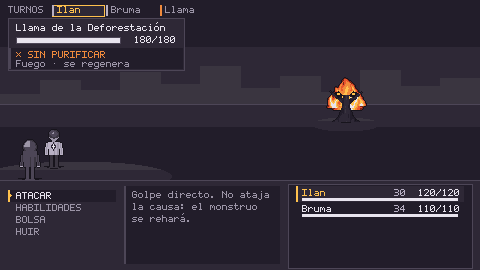
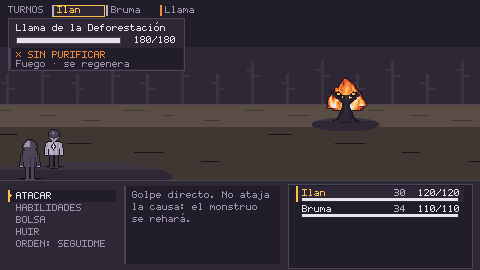
feat(ia): la orden también se juzga y los compañeros actúan en combate (IA-5 paso 3, enmienda 1)

Changed region(s): [[0.0, 0.3852, 1.0, 0.6815], [0.0312, 0.8889, 0.2188, 0.9185]]

diff --git a/docs/ux/anexos/2026-10-28-encuentros.md b/docs/ux/anexos/2026-10-28-encuentros.md
@@ -882,6 +882,70 @@ el grupo gana en menos rondas», y los pesos iniciales de IA-4.
 **Siguiente:** paso 3. Los compañeros deciden solos en «Ceniza y Brasa», la
 orden se elige en el menú de Ilan y el registro dice por qué actúa cada uno.
 
+Diego aprobó los pasos 1 y 2 de IA-5 el 2026-10-28.
+
+#### IA-5, paso 3 — Los compañeros en el combate · 2026-10-28
+
+- **`BattleManager`** (`companions_auto`; apagado por defecto, así que la demo
+  y las pruebas viejas no cambian):
+  - el líder es el primero del grupo, Ilan;
+  - los compañeros resuelven su turno con su `PartyMind`, la orden vigente y
+    la sintonía;
+  - cada compañero deja su motivo en el registro: «Coral sigue la orden:
+    Barrera Absorbente.», «Bruma sigue a Ilan: …» o «Bruma duda: …»;
+  - tras cada decisión de Ilan, las mentes aprenden un paso y la sintonía se
+    juzga.
+- **`BattleScreen`:** el menú solo se abre para Ilan, con una quinta fila,
+  **«ORDEN: SEGUIDME / ATAJAD / CUBRÍOS»**, que cambia la orden al
+  confirmarla sin gastar el turno. Su descripción va en el área de mensaje.
+- **`GameState`** guarda `party_minds` y `party_sync` entre combates, y
+  `GameFlow` los pasa al combate y recoge la sintonía al salir.
+
+### Enmienda 1 de «Orden de líder» — la orden también se juzga, autorizada por Diego el 2026-10-28
+
+**Lo que pasó:** con el §5 original, la sintonía no se movía (0,50 con un
+líder bueno y con uno malo). Ilan casi nunca tiene la contramedida: solo la
+suya en la Cumbre. Y la compañera que la tiene, más rápida, purificaba antes
+del primer turno de Ilan.
+
+**Enmienda:** la orden es decisión del líder y se juzga junto a su acción
+(`PartyMind.judge_order`):
+
+- *Atajad* es buena con la causa activa y alguien que pueda atajarla;
+- *Cubríos* es buena si alguien baja del 45 %, y mala si nadie está tocado;
+- *Seguidme* es mala si el grupo podía atajar y el líder no lo hace.
+
+**Un error del juez en el motor, y se dice:** «podía atajar» contaba también
+el tipo ya usado contra la Sombra. Entonces atacar en vez de repetir salía
+como malo, justo al revés. Ahora solo cuenta un tipo sin usar.
+
+**Medido** — `tools/verify_party_ai.gd`: **19 de 19**.
+
+- Lo del paso 2 (10/10), más el combate contra la Sombra, 40 combates por
+  líder:
+  - solo se le pide decisión a Ilan (0 peticiones a otros);
+  - cada compañero deja su motivo (unas 480 líneas por serie);
+  - la sintonía **sube a 0,72 con el líder bueno y baja a 0,00 con el malo**;
+  - el bueno gana 40 de 40 en **6,3 rondas** y el malo 0 de 40.
+- **Menú:** lleva la fila de orden, las tres caben sin recorte (90 de 100 px)
+  y confirmarla cambia la orden sin gastar el turno.
+- **Tres fallos de la propia prueba, y se dicen:**
+  - las lambdas capturaban los contadores por valor (daban 0);
+  - se usó la fase 1 por «elegir», que es la 2;
+  - el líder «bueno» repetía su contramedida contra la Sombra.
+- **Por qué se mide contra la Sombra:** en una región, la causa no dura lo
+  bastante para juzgar. **Eso es un síntoma del equilibrado:** una
+  contramedida purifica al momento. Se trata en el paso 4.
+- **Regresión:** `verify_flow` 23/23, `verify_usability` 16/16,
+  `verify_encounters` 82/82 y `battle_demo` sin errores.
+
+**Capturas:** `2026-10-28-combate-desde-el-mapa.png` (la fila «ORDEN:
+SEGUIDME» en el menú de Ilan) y `2026-10-28-combate-orden-registro.png`
+(«Bruma duda: Línea Cortafuegos.»).
+
+**Pendiente para el paso 4:** los pesos iniciales de las mentes desde IA-4 (hoy
+parten de una semilla por nombre), y el reequilibrado.
+
 ---
 
 ## Lo que queda abierto en esta parte (se decide después de la dirección)
